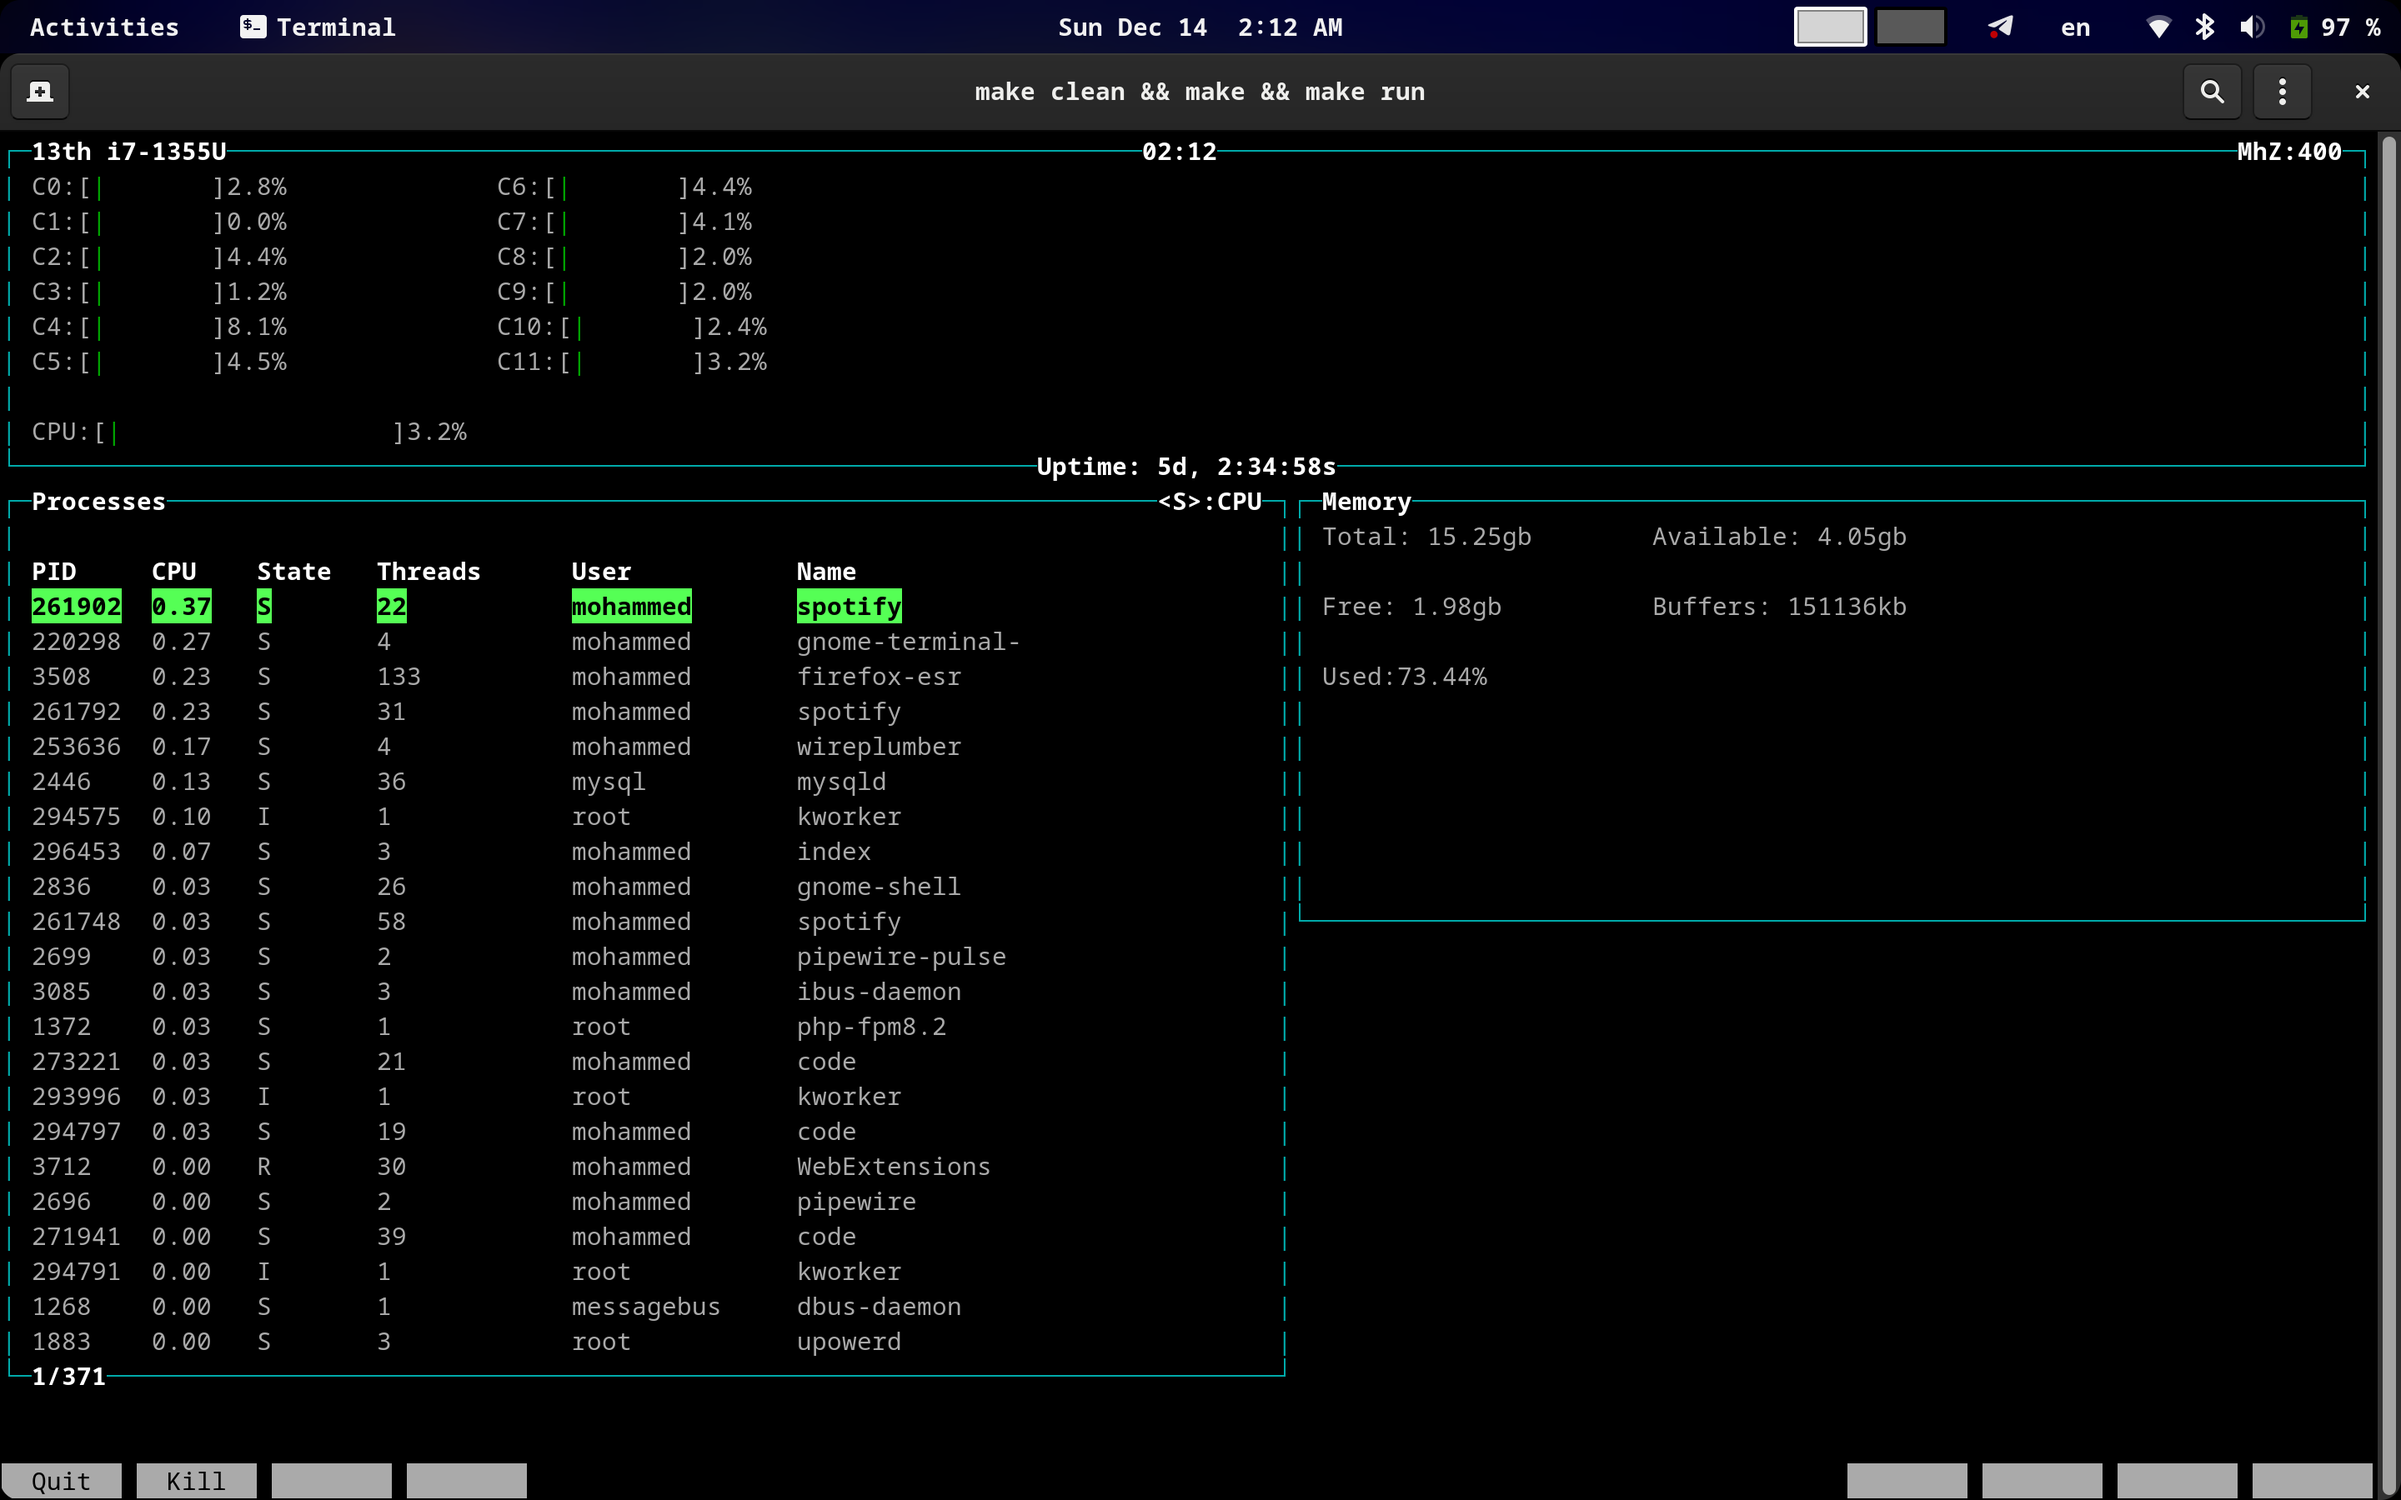
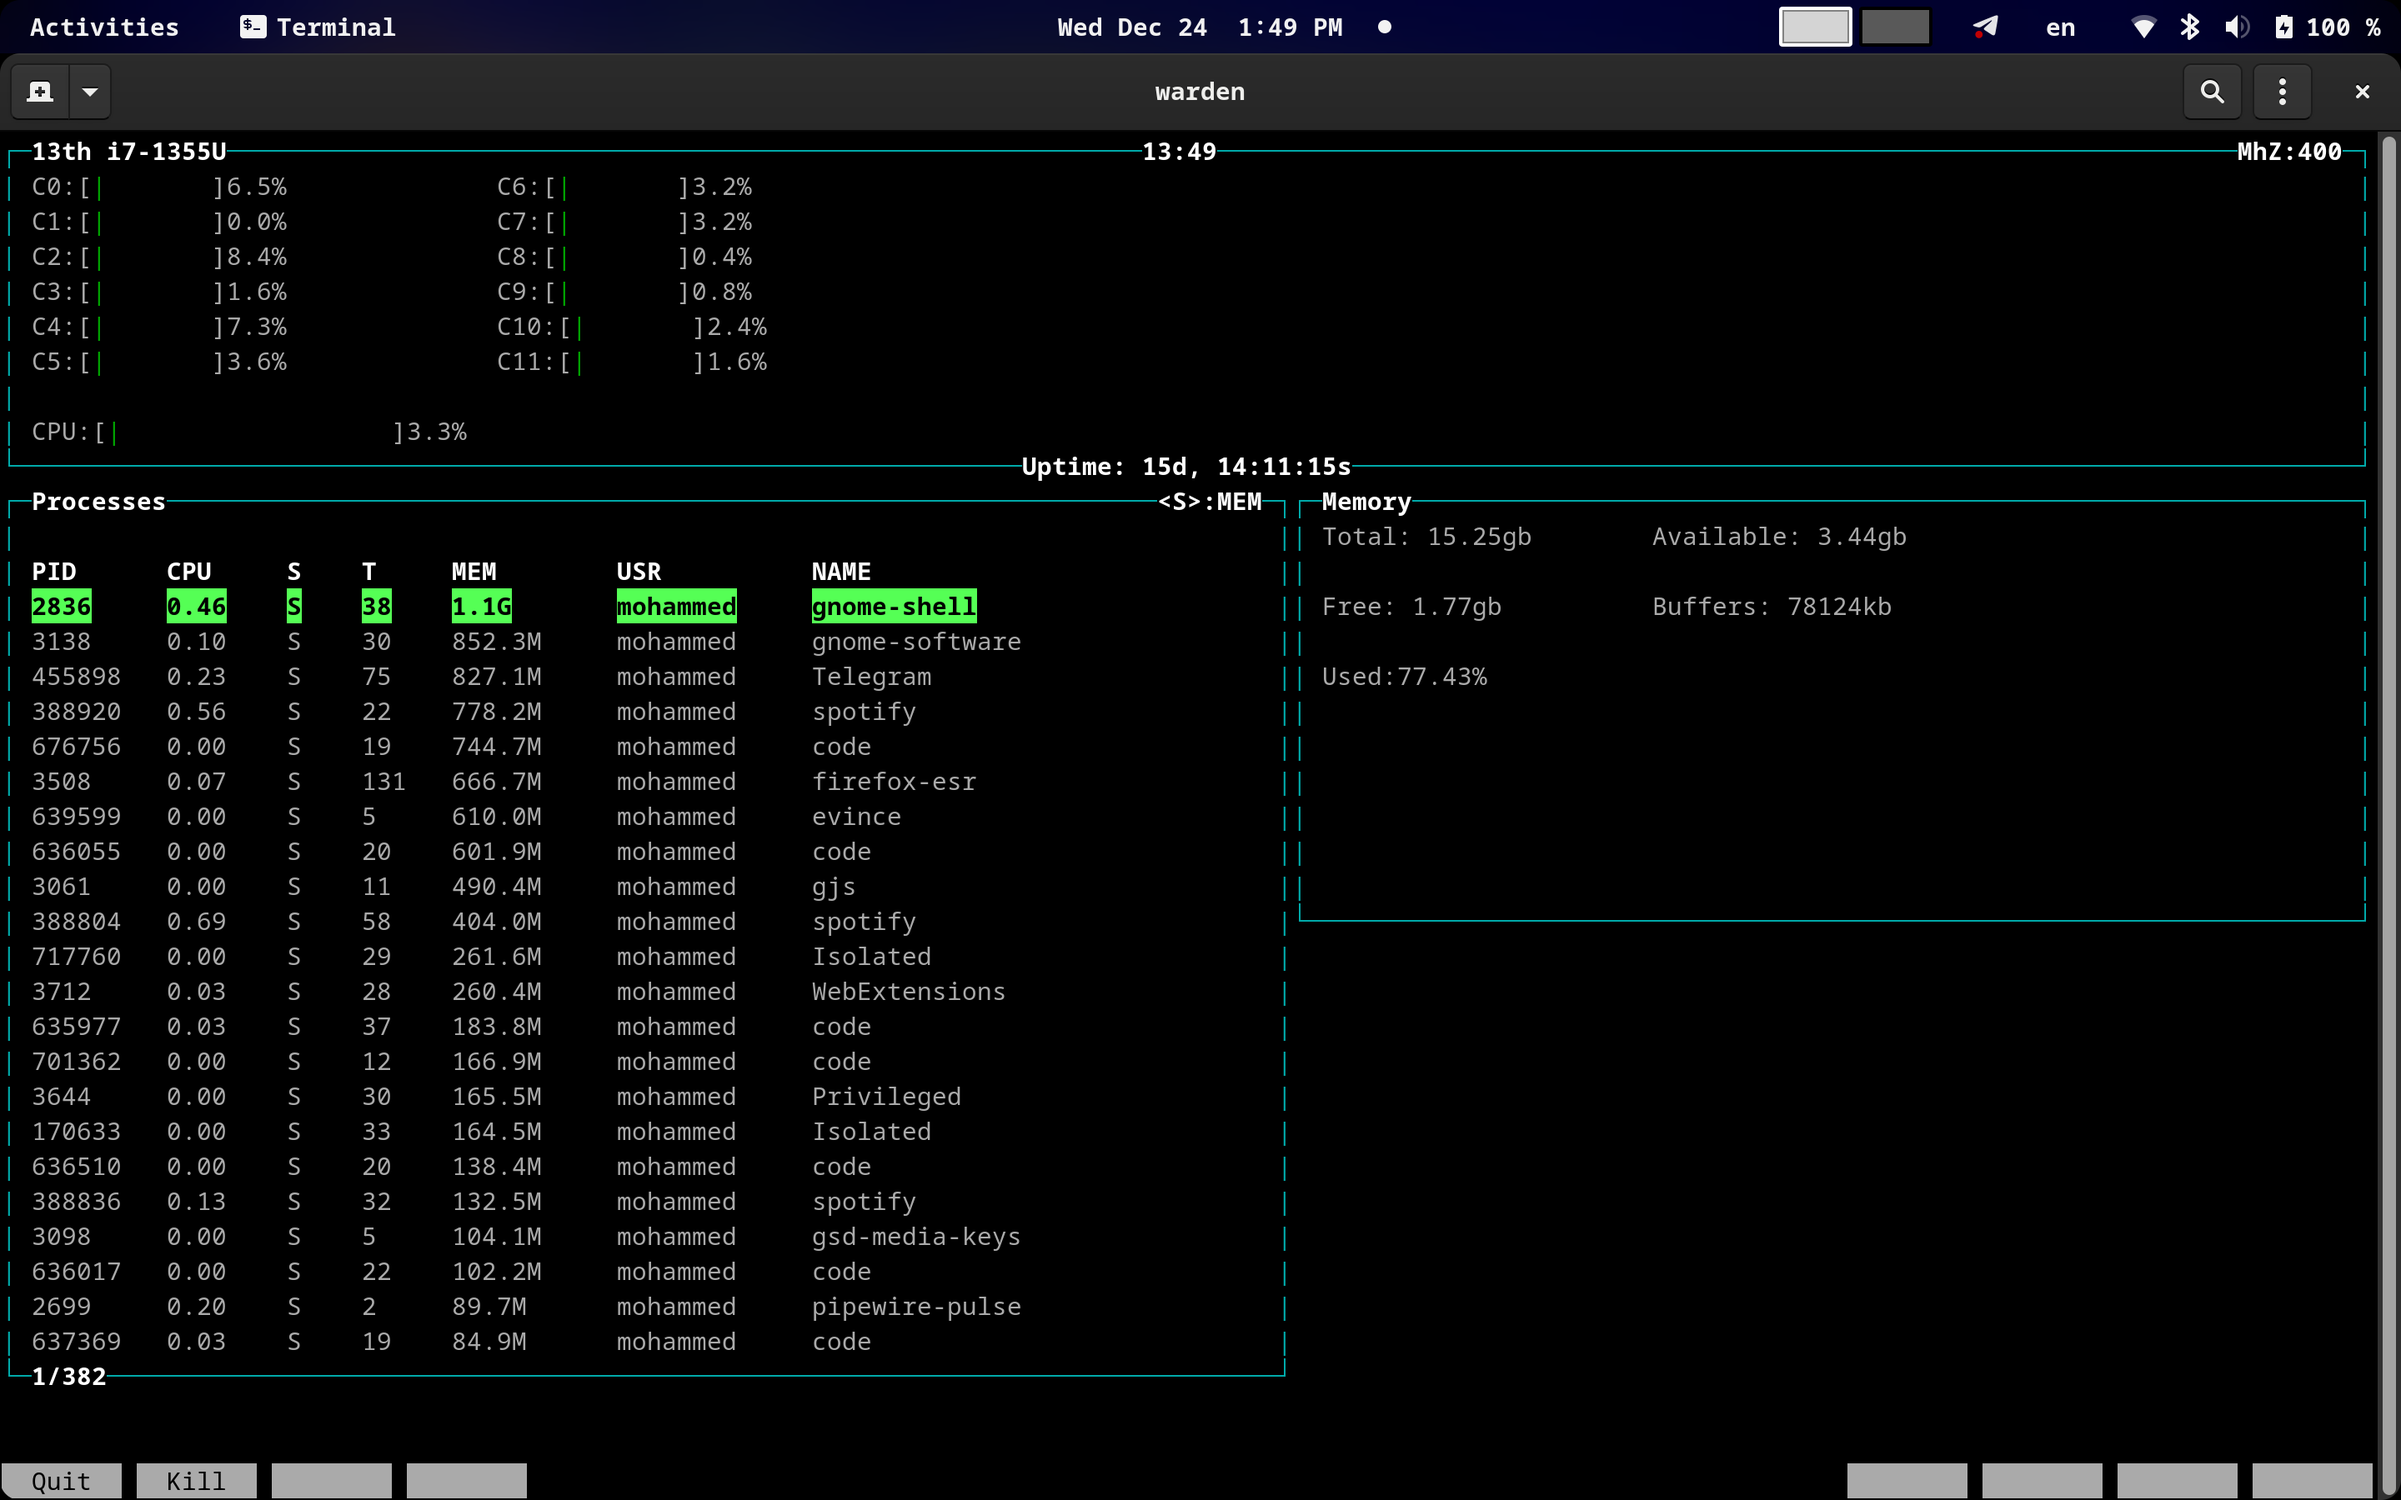
[README]: update screenshot && roadmap

diff --git a/README.md b/README.md
@@ -85,7 +85,7 @@ warden
 
 ## 🔮 Roadmap
 
-- [ ] **Memory Sorting:** Ability to sort processes by RAM usage.
-- [ ] **CLI Options:** Support for command-line arguments and flags.
+- [✅] **Memory Sorting:** Ability to sort processes by RAM usage.
+- [✅] **CLI Options:** Support for command-line arguments and flags.
 
 ---
